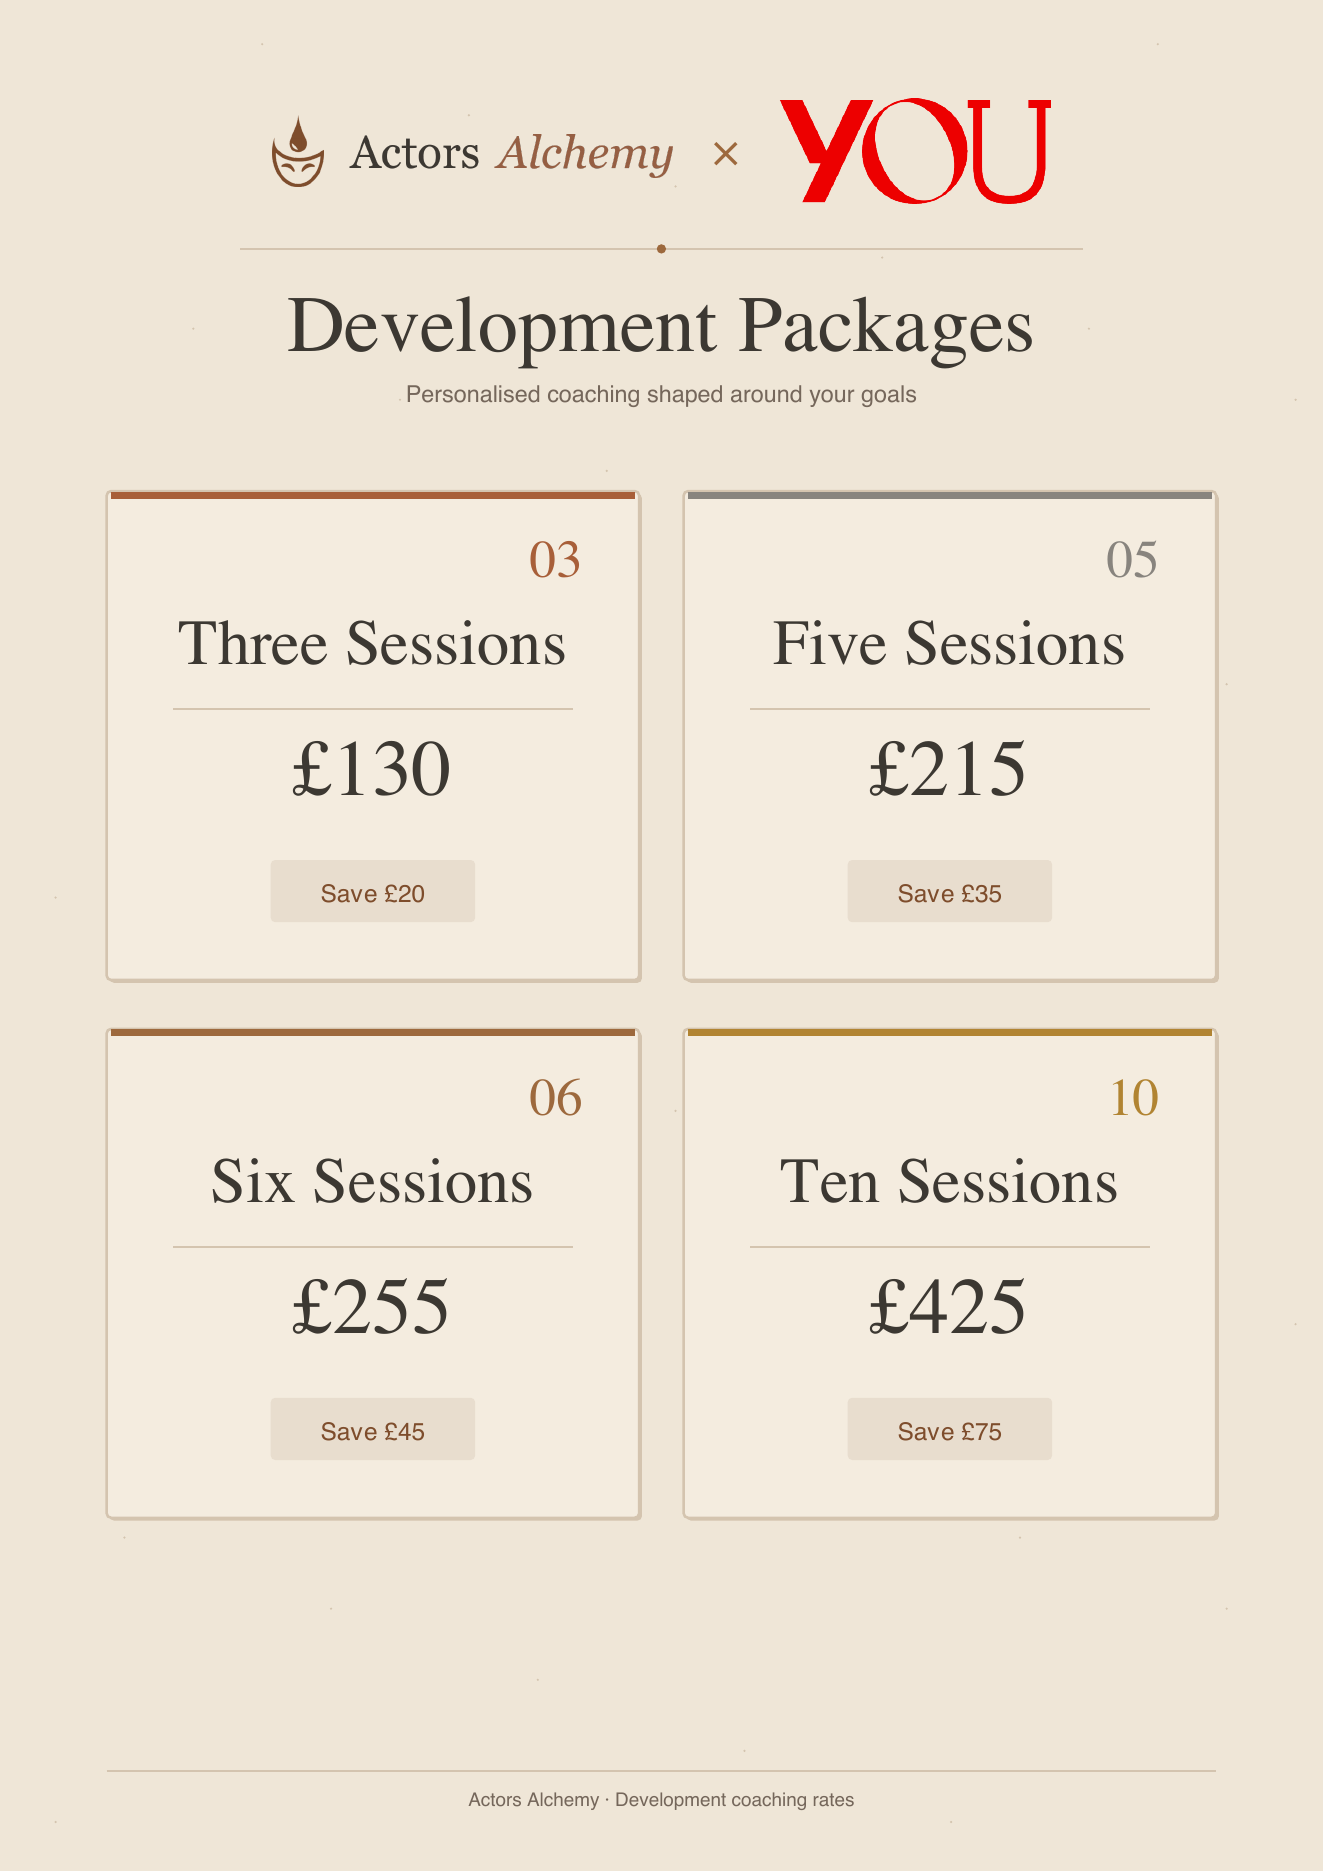
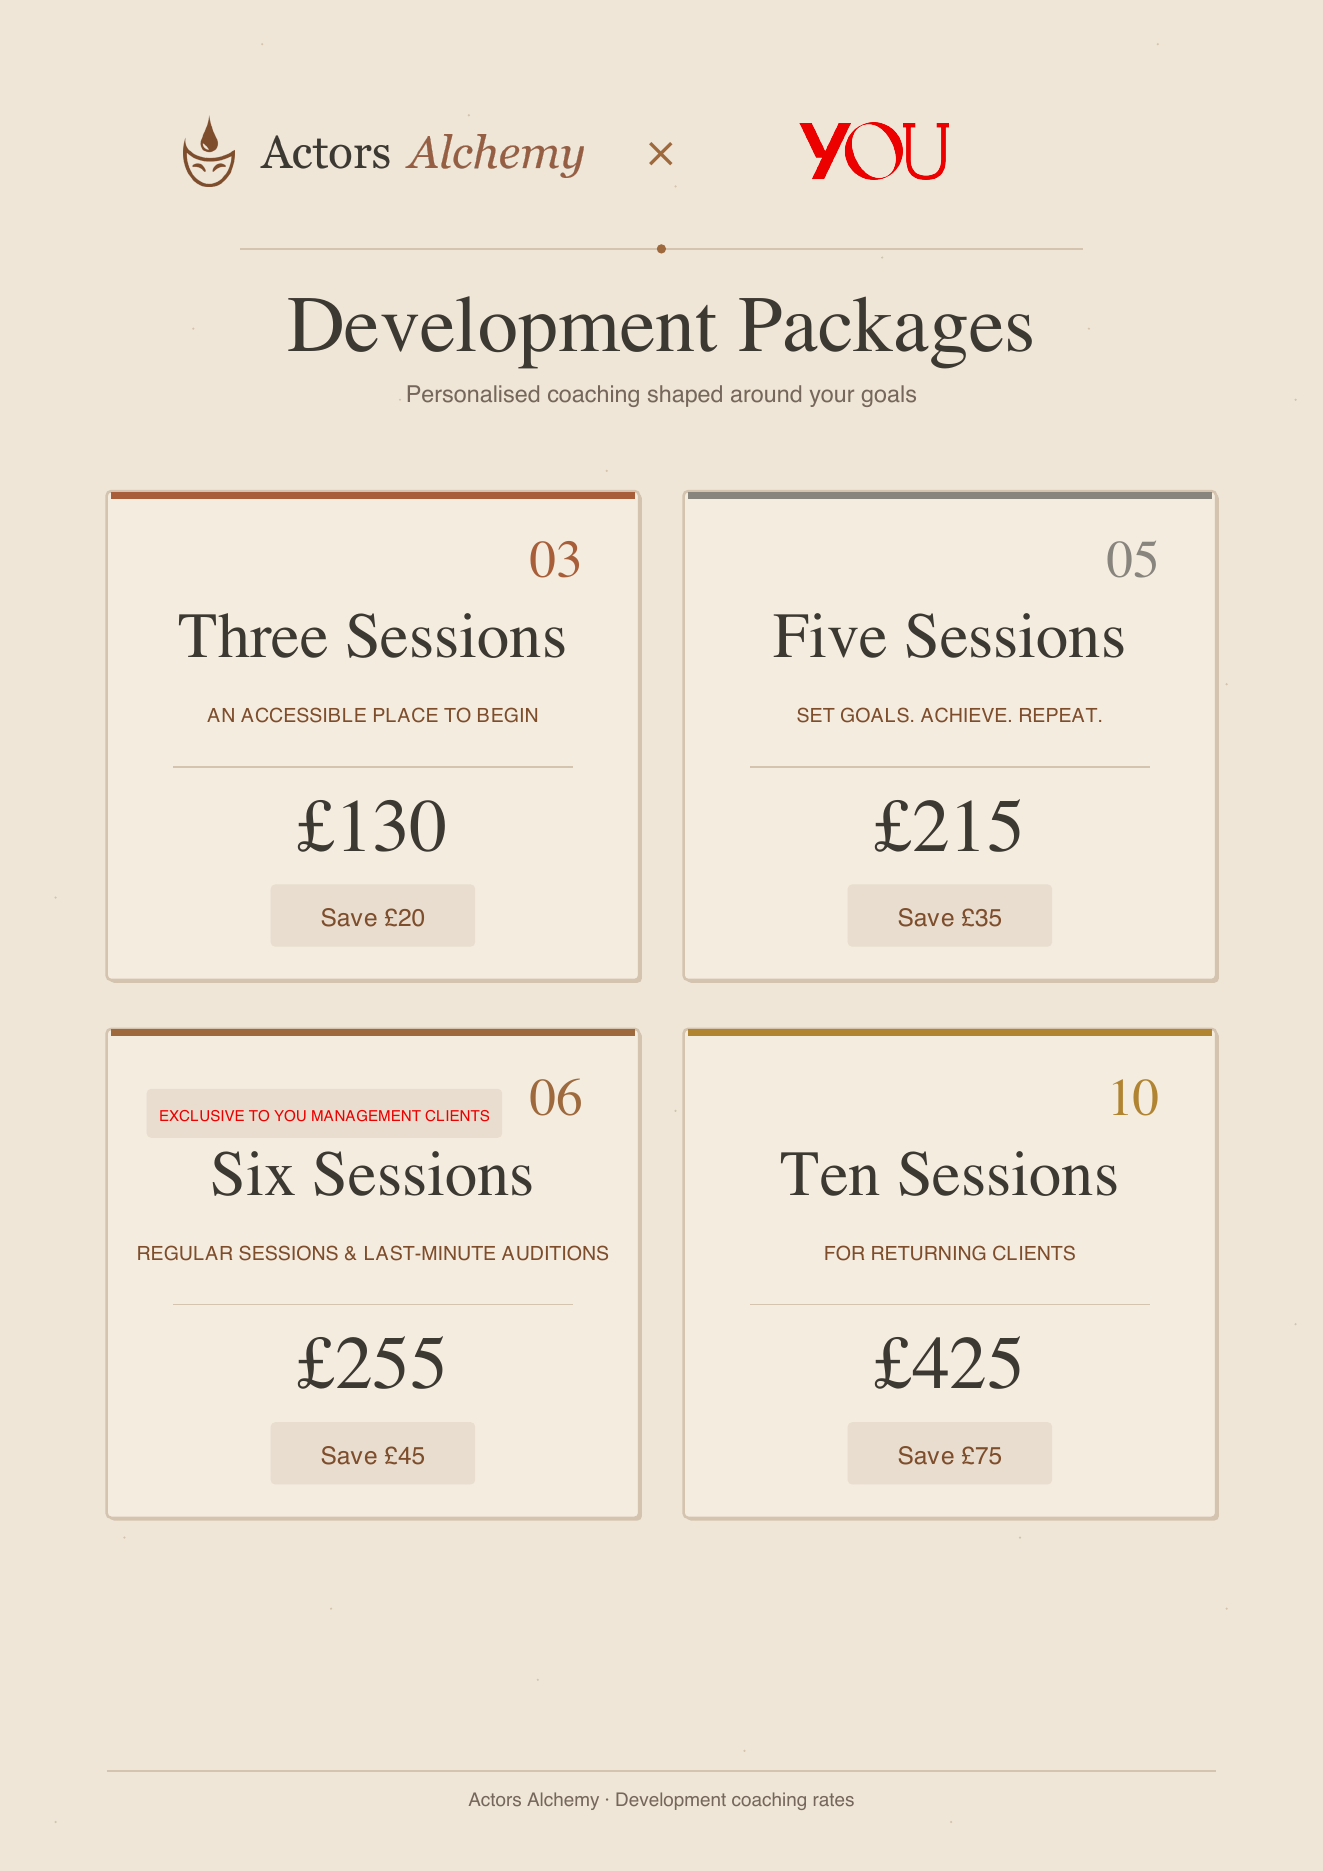
j

diff --git a/make_you_management_packages_pdf.py b/make_you_management_packages_pdf.py
@@ -25,12 +25,13 @@ RUST_DEEP = HexColor("#7e4d2c")
 COPPER = HexColor("#a85f39")
 SILVER = HexColor("#88847e")
 GOLD = HexColor("#b18432")
+YOU_RED = HexColor("#ed0000")
 
 PACKAGES = [
-    {"sessions": "03", "title": "Three Sessions", "price": "£130", "saving": "Save £20", "number": COPPER},
-    {"sessions": "05", "title": "Five Sessions", "price": "£215", "saving": "Save £35", "number": SILVER},
-    {"sessions": "06", "title": "Six Sessions", "price": "£255", "saving": "Save £45", "number": RUST},
-    {"sessions": "10", "title": "Ten Sessions", "price": "£425", "saving": "Save £75", "number": GOLD},
+    {"sessions": "03", "title": "Three Sessions", "purpose": ["AN ACCESSIBLE PLACE TO BEGIN"], "price": "£130", "saving": "Save £20", "number": COPPER},
+    {"sessions": "05", "title": "Five Sessions", "purpose": ["SET GOALS. ACHIEVE. REPEAT."], "price": "£215", "saving": "Save £35", "number": SILVER},
+    {"sessions": "06", "title": "Six Sessions", "purpose": ["SET GOALS. ACHIEVE. REPEAT.", "PLUS ONE SESSION FREE"], "price": "£255", "saving": "Save £45", "number": RUST},
+    {"sessions": "10", "title": "Ten Sessions", "purpose": ["RETURNING CLIENTS.", "MAXIMUM AFFORDABILITY."], "price": "£425", "saving": "Save £75", "number": GOLD},
 ]
 
 
@@ -68,31 +69,51 @@ def draw_card(c, x, y, width, height, package):
     c.setLineWidth(1.15)
     c.roundRect(x, y, width, height, 2, fill=1, stroke=1)
 
-    c.setStrokeColor(package["number"])
+    c.setStrokeColor(YOU_RED if package["sessions"] == "06" else package["number"])
     c.setLineWidth(3.2)
     c.line(x + 1.8, y + height - 1.8, x + width - 1.8, y + height - 1.8)
+
+    content_center = x + width / 2
+    is_exclusive = package["sessions"] == "06"
+
+    if is_exclusive:
+        exclusive_x = x + 18
+        exclusive_y = y + height - 44
+        exclusive_width = 160
+        c.setFillColor(OAT)
+        c.roundRect(exclusive_x, exclusive_y, exclusive_width, 22, 2, fill=1, stroke=0)
+        c.setFillColor(YOU_RED)
+        c.setFont("Helvetica-Bold", 6.8)
+        c.drawCentredString(exclusive_x + exclusive_width / 2, y + height - 34, "EXCLUSIVE TO YOU MANAGEMENT CLIENTS")
 
     c.setFillColor(package["number"])
     c.setFont("Times-Roman", 24)
     c.drawRightString(x + width - 25, y + height - 39, package["sessions"])
 
-    content_center = x + width / 2
     c.setFillColor(CHARCOAL)
     c.setFont("Times-Roman", 29)
-    c.drawCentredString(content_center, y + height - 78, package["title"])
+    c.drawCentredString(content_center, y + height - 75, package["title"])
+
+    purpose_lines = package["purpose"]
+    purpose_size = 8.1 if len(purpose_lines) > 1 else 8.8
+    first_purpose_y = y + 116 if len(purpose_lines) == 1 else y + 119
+    c.setFillColor(RUST_DEEP)
+    c.setFont("Helvetica-Bold", purpose_size)
+    for index, line in enumerate(purpose_lines):
+        c.drawCentredString(content_center, first_purpose_y - index * 13, line)
 
     c.setStrokeColor(OAT_DEEP)
     c.setLineWidth(0.8)
-    c.line(x + 30, y + height - 98, x + width - 30, y + height - 98)
+    c.line(x + 30, y + 96, x + width - 30, y + 96)
 
     c.setFillColor(CHARCOAL)
-    c.setFont("Times-Roman", 36)
-    c.drawCentredString(content_center, y + height - 137, package["price"])
+    c.setFont("Times-Roman", 34)
+    c.drawCentredString(content_center, y + 58, package["price"])
 
     badge_width = 92
     badge_height = 28
     badge_x = content_center - badge_width / 2
-    badge_y = y + 26
+    badge_y = y + 15
     c.setFillColor(OAT)
     c.roundRect(badge_x, badge_y, badge_width, badge_height, 2, fill=1, stroke=0)
     c.setFillColor(RUST_DEEP)
@@ -123,20 +144,22 @@ def build_pdf():
     logo, logo_ratio = trimmed_logo(LOGO)
     you_logo, you_logo_ratio = trimmed_logo(YOU_LOGO)
     logo_height = 32
-    you_logo_height = logo_height * sqrt(logo_ratio / you_logo_ratio)
+    you_logo_height = logo_height * sqrt(logo_ratio / you_logo_ratio) * 0.55
     logo_width = logo_height * logo_ratio
     you_logo_width = you_logo_height * you_logo_ratio
     lockup_center_y = page_h - 68
     c.setFillColor(RUST)
     c.setFont("Times-Roman", 22)
-    cross_width = c.stringWidth("×", "Times-Roman", 22)
-    lockup_gap = 18
-    group_width = logo_width + lockup_gap + cross_width + lockup_gap + you_logo_width
-    group_x = (page_w - group_width) / 2
-    c.drawImage(logo, group_x, lockup_center_y - logo_height / 2, width=logo_width, height=logo_height, mask="auto")
-    cross_x = group_x + logo_width + lockup_gap
-    c.drawString(cross_x, lockup_center_y - 7, "×")
-    you_x = cross_x + cross_width + lockup_gap
+    cross_center_x = page_w / 2
+    lockup_clear_space = 35
+    logo_x = cross_center_x - lockup_clear_space - logo_width
+    title_text = "Development Packages"
+    title_start_x = (page_w - c.stringWidth(title_text, "Times-Roman", 36)) / 2
+    k_index = title_text.index("k")
+    packages_k_center_x = title_start_x + c.stringWidth(title_text[:k_index], "Times-Roman", 36) + c.stringWidth("k", "Times-Roman", 36) / 2
+    you_x = packages_k_center_x - you_logo_width / 2
+    c.drawImage(logo, logo_x, lockup_center_y - logo_height / 2, width=logo_width, height=logo_height, mask="auto")
+    c.drawCentredString(cross_center_x, lockup_center_y - 7, "×")
     c.drawImage(you_logo, you_x, lockup_center_y - you_logo_height / 2, width=you_logo_width, height=you_logo_height, mask="auto")
 
     c.setStrokeColor(OAT_DEEP)
@@ -147,7 +170,7 @@ def build_pdf():
 
     c.setFillColor(CHARCOAL)
     c.setFont("Times-Roman", 36)
-    c.drawCentredString(page_w / 2, page_h - 158, "Development Packages")
+    c.drawCentredString(page_w / 2, page_h - 158, title_text)
     c.setFillColor(MUTED)
     c.setFont("Helvetica", 10.5)
     c.drawCentredString(page_w / 2, page_h - 181, "Personalised coaching shaped around your goals")
@@ -168,6 +191,18 @@ def build_pdf():
     ]
     for package, (x, y) in zip(PACKAGES, positions):
         draw_card(c, x, y, card_w, card_h, package)
+
+    note_x = 68
+    note_y = 66
+    note_width = page_w - 2 * note_x
+    note_height = 76
+    c.setFillColor(OAT)
+    c.roundRect(note_x, note_y, note_width, note_height, 3, fill=1, stroke=0)
+    c.setFillColor(MUTED)
+    c.setFont("Helvetica", 10.4)
+    c.drawCentredString(page_w / 2, 116, "All sessions are personalised and designed around each performer and their goals.")
+    c.drawCentredString(page_w / 2, 99, "These packages reflect the work we aim to achieve together,")
+    c.drawCentredString(page_w / 2, 82, "at an exclusive and affordable rate for YOU Management clients.")
 
     c.setStrokeColor(OAT_DEEP)
     c.setLineWidth(0.7)
